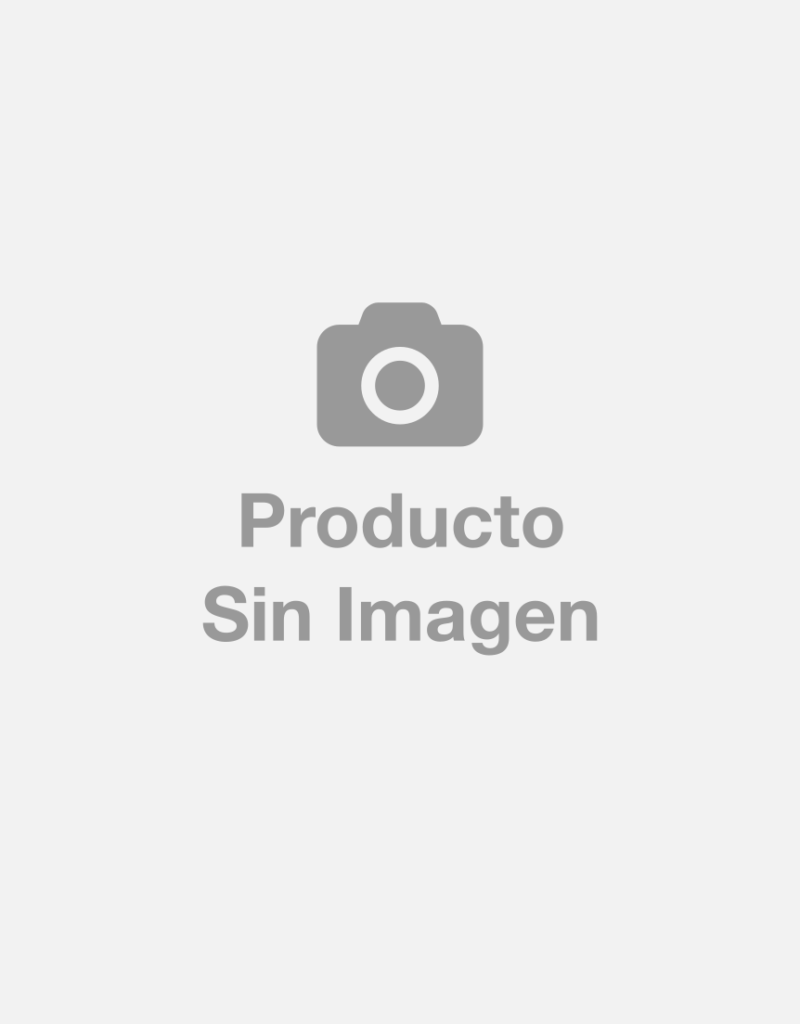
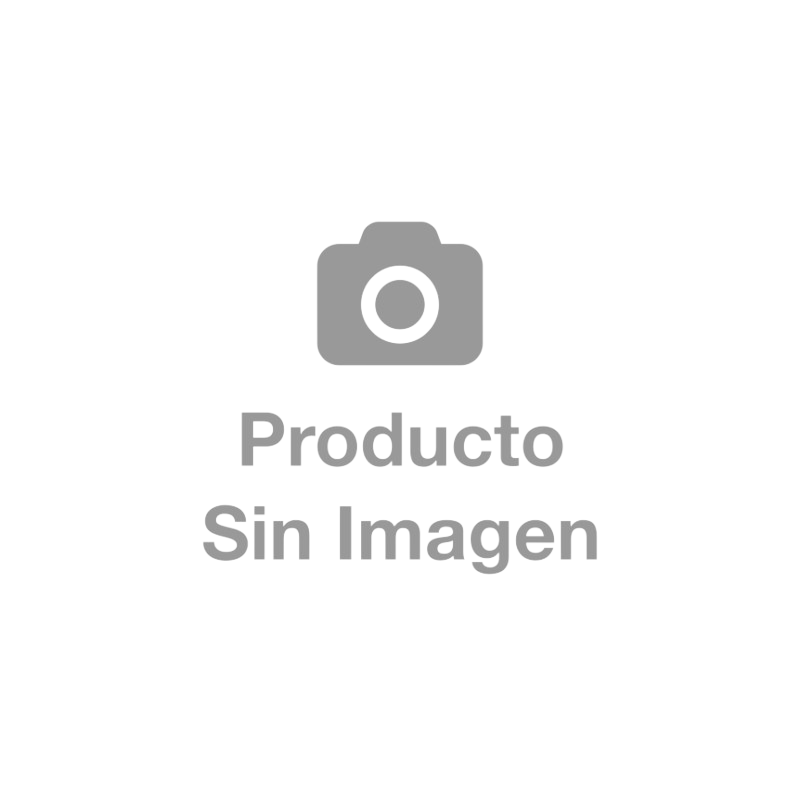
Clear-Code_&_Fix-Bg-Tailwind

diff --git a/src/components/ItemDetailContainer.jsx b/src/components/ItemDetailContainer.jsx
@@ -6,10 +6,6 @@ import Loader from './Loader';
 
 export default function ItemDetailContainer() {
 
-    console.log("dentro de ItemDetailContainer");
-
-    //const { darkMode, loader, setLoader } = useContext(generalContext);
-
     const { darkMode } = useContext(generalContext);
 
     const [loader, setLoader] = useState(true);
@@ -17,12 +13,8 @@ export default function ItemDetailContainer() {
     const { idItem } = useParams();
 
     const [product, setProduct] = useState({});
-
-    console.log(loader);
     
     useEffect(() => {
-      
-      console.log("dentro de ItemDetailContainer useEffect");
 
       let myHeaders = new Headers();
       myHeaders.append("Content-Type", "application/json");
@@ -53,7 +45,6 @@ export default function ItemDetailContainer() {
   if (loader)
     return (
       <>
-      {console.log("return loader")}
       <Loader />
       </>
   )
@@ -64,7 +55,6 @@ export default function ItemDetailContainer() {
         backgroundColor: darkMode ? "black" : "white"
       }}
     >
-      {console.log("return ItemDetail")}
       <ItemDetail product={product[0]} />
     </div>
   )

diff --git a/src/components/ItemDetail.jsx b/src/components/ItemDetail.jsx
@@ -19,12 +19,6 @@ export default function ItemDetail({ product }) {
 
     <div className="flex justify-center">
 
-
-
-      {/* {product ? ( */}
-
-
-
       <div className="flex-col w-60 m-8 border"
         style={{
           color: darkMode ? "white" : "black",
@@ -32,14 +26,10 @@ export default function ItemDetail({ product }) {
           border: darkMode ? "2px solid white" : "2px solid black"
         }}
       >
-
-        {console.log("Dentro de ItemDetail")}
-
-        {/*PASAR ESE STYLE A TAILWIND!!!!!!!!!!!!!!!!!!!!!!!!!!!!!*/}
-        <img src={product.imagenes[0] || "/without-img2.png"}
-          style={{
-            backgroundColor: "white"
-          }}
+        
+        <img 
+          src={product.imagenes[0] || "/without-img.png"}
+          className="bg-white"
         />
 
         <ul className="text-center">
@@ -59,19 +49,7 @@ export default function ItemDetail({ product }) {
         }
 
       </div>
-
-
-
-
-      {/* ) : (
-        <div>
-          Loading...
-        </div>
-      )} */}
-
-
-
-
+      
     </div>
   )
 }

diff --git a/src/components/Item.jsx b/src/components/Item.jsx
@@ -1,15 +1,10 @@
-import React, { useEffect, useContext} from 'react';
+import React, { useContext} from 'react';
 import { Link } from 'react-router-dom';
 import { generalContext } from './ContextContainer';
 
 export default function Item({product}) {
 
-  const { darkMode, setLoader } = useContext(generalContext);
-
-  // useEffect(() => {
-  //   /* changed value default to true */
-  //   setLoader(true);
-  // }, [])
+  const { darkMode } = useContext(generalContext);
 
   return (
 
@@ -22,13 +17,10 @@ export default function Item({product}) {
       }}
       key={product.id}
     >
-
-      {/*PASAR ESE STYLE A TAILWIND!!!!!!!!!!!!!!!!!!!!!!!!!!!!!*/}
+      
       <img 
-        src={product.imagenes[0] || "/without-img2.png"} 
-        style={{
-          backgroundColor: "white"
-        }}
+        src={product.imagenes[0] || "/without-img.png"}
+        className="bg-white"
       />
 
       <ul className="text-center">

diff --git a/src/components/ContextContainer.jsx b/src/components/ContextContainer.jsx
@@ -6,8 +6,6 @@ export default function ContextContainer( { children } ) {
 
   const [darkMode, setDarkMode] = useState(false);
 
-  //const [loader, setLoader] = useState(true);
-
   const [cart, setCart] = useState([]);
 
   const clearCart = () => setCart([]);
@@ -33,10 +31,8 @@ export default function ContextContainer( { children } ) {
   return (
     <generalContext.Provider value={{
       darkMode,
-      //loader,
       cart,
       setDarkMode,
-      //setLoader,
       clearCart, 
       isInCart,
       removeProduct,

diff --git a/src/components/ItemListContainer.jsx b/src/components/ItemListContainer.jsx
@@ -6,8 +6,6 @@ import Loader from './Loader';
 
 export default function ItemListContainer({greeting}) {
 
-  //const { darkMode, loader, setLoader } = useContext(generalContext);
-
   const { darkMode } = useContext(generalContext);
 
   const [loader, setLoader] = useState(true);

diff --git a/src/output.css b/src/output.css
@@ -772,6 +772,11 @@ video {
   background-color: rgb(75 85 99 / var(--tw-bg-opacity));
 }
 
+.bg-white {
+  --tw-bg-opacity: 1;
+  background-color: rgb(255 255 255 / var(--tw-bg-opacity));
+}
+
 .p-2 {
   padding: 0.5rem;
 }

diff --git a/src/components/NavBar.jsx b/src/components/NavBar.jsx
@@ -135,8 +135,6 @@ export default function NavBar() {
         </div>
       </nav>
 
-      {/* button ? <button onClick={ () => functionLogin() }>LOGIN</button>: null */}
-
     </>
   )
 }
